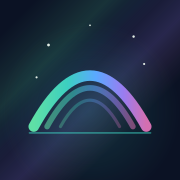
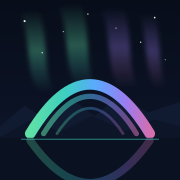
Bifröst : nouvelle icône (le pont sous l'aurore et son reflet)
Claude-Session: https://claude.ai/code/session_01YPRT6gXqhc9vDGuXJUpg4K

diff --git a/bifrost/index.html b/bifrost/index.html
@@ -11,7 +11,7 @@
 <title>Bifröst</title>
 <link rel="preconnect" href="https://fonts.googleapis.com">
 <link rel="manifest" href="manifest.webmanifest">
-<link rel="apple-touch-icon" href="icon-180.png">
+<link rel="apple-touch-icon" href="icon-180.png?v=3">
 <link rel="icon" type="image/png" href="icon-192.png">
 <link rel="stylesheet" href="https://fonts.googleapis.com/css2?family=DM+Sans:opsz,wght@9..40,400;9..40,500;9..40,700&display=swap">
 <style>

diff --git a/bifrost/sw.js b/bifrost/sw.js
@@ -1,5 +1,5 @@
 /* Bifröst : fonctionnement hors ligne */
-const V = 'bifrost-v2';
+const V = 'bifrost-v3';
 const LOCAL = ['./', './index.html', './vault.js', './manifest.webmanifest', './icon-180.png', './icon-192.png', './icon-512.png', './fonts/uncial.woff2', './fonts/cinzel.woff2'];
 self.addEventListener('install', e => {
   e.waitUntil(caches.open(V).then(c => c.addAll(LOCAL)).then(() => self.skipWaiting()));
